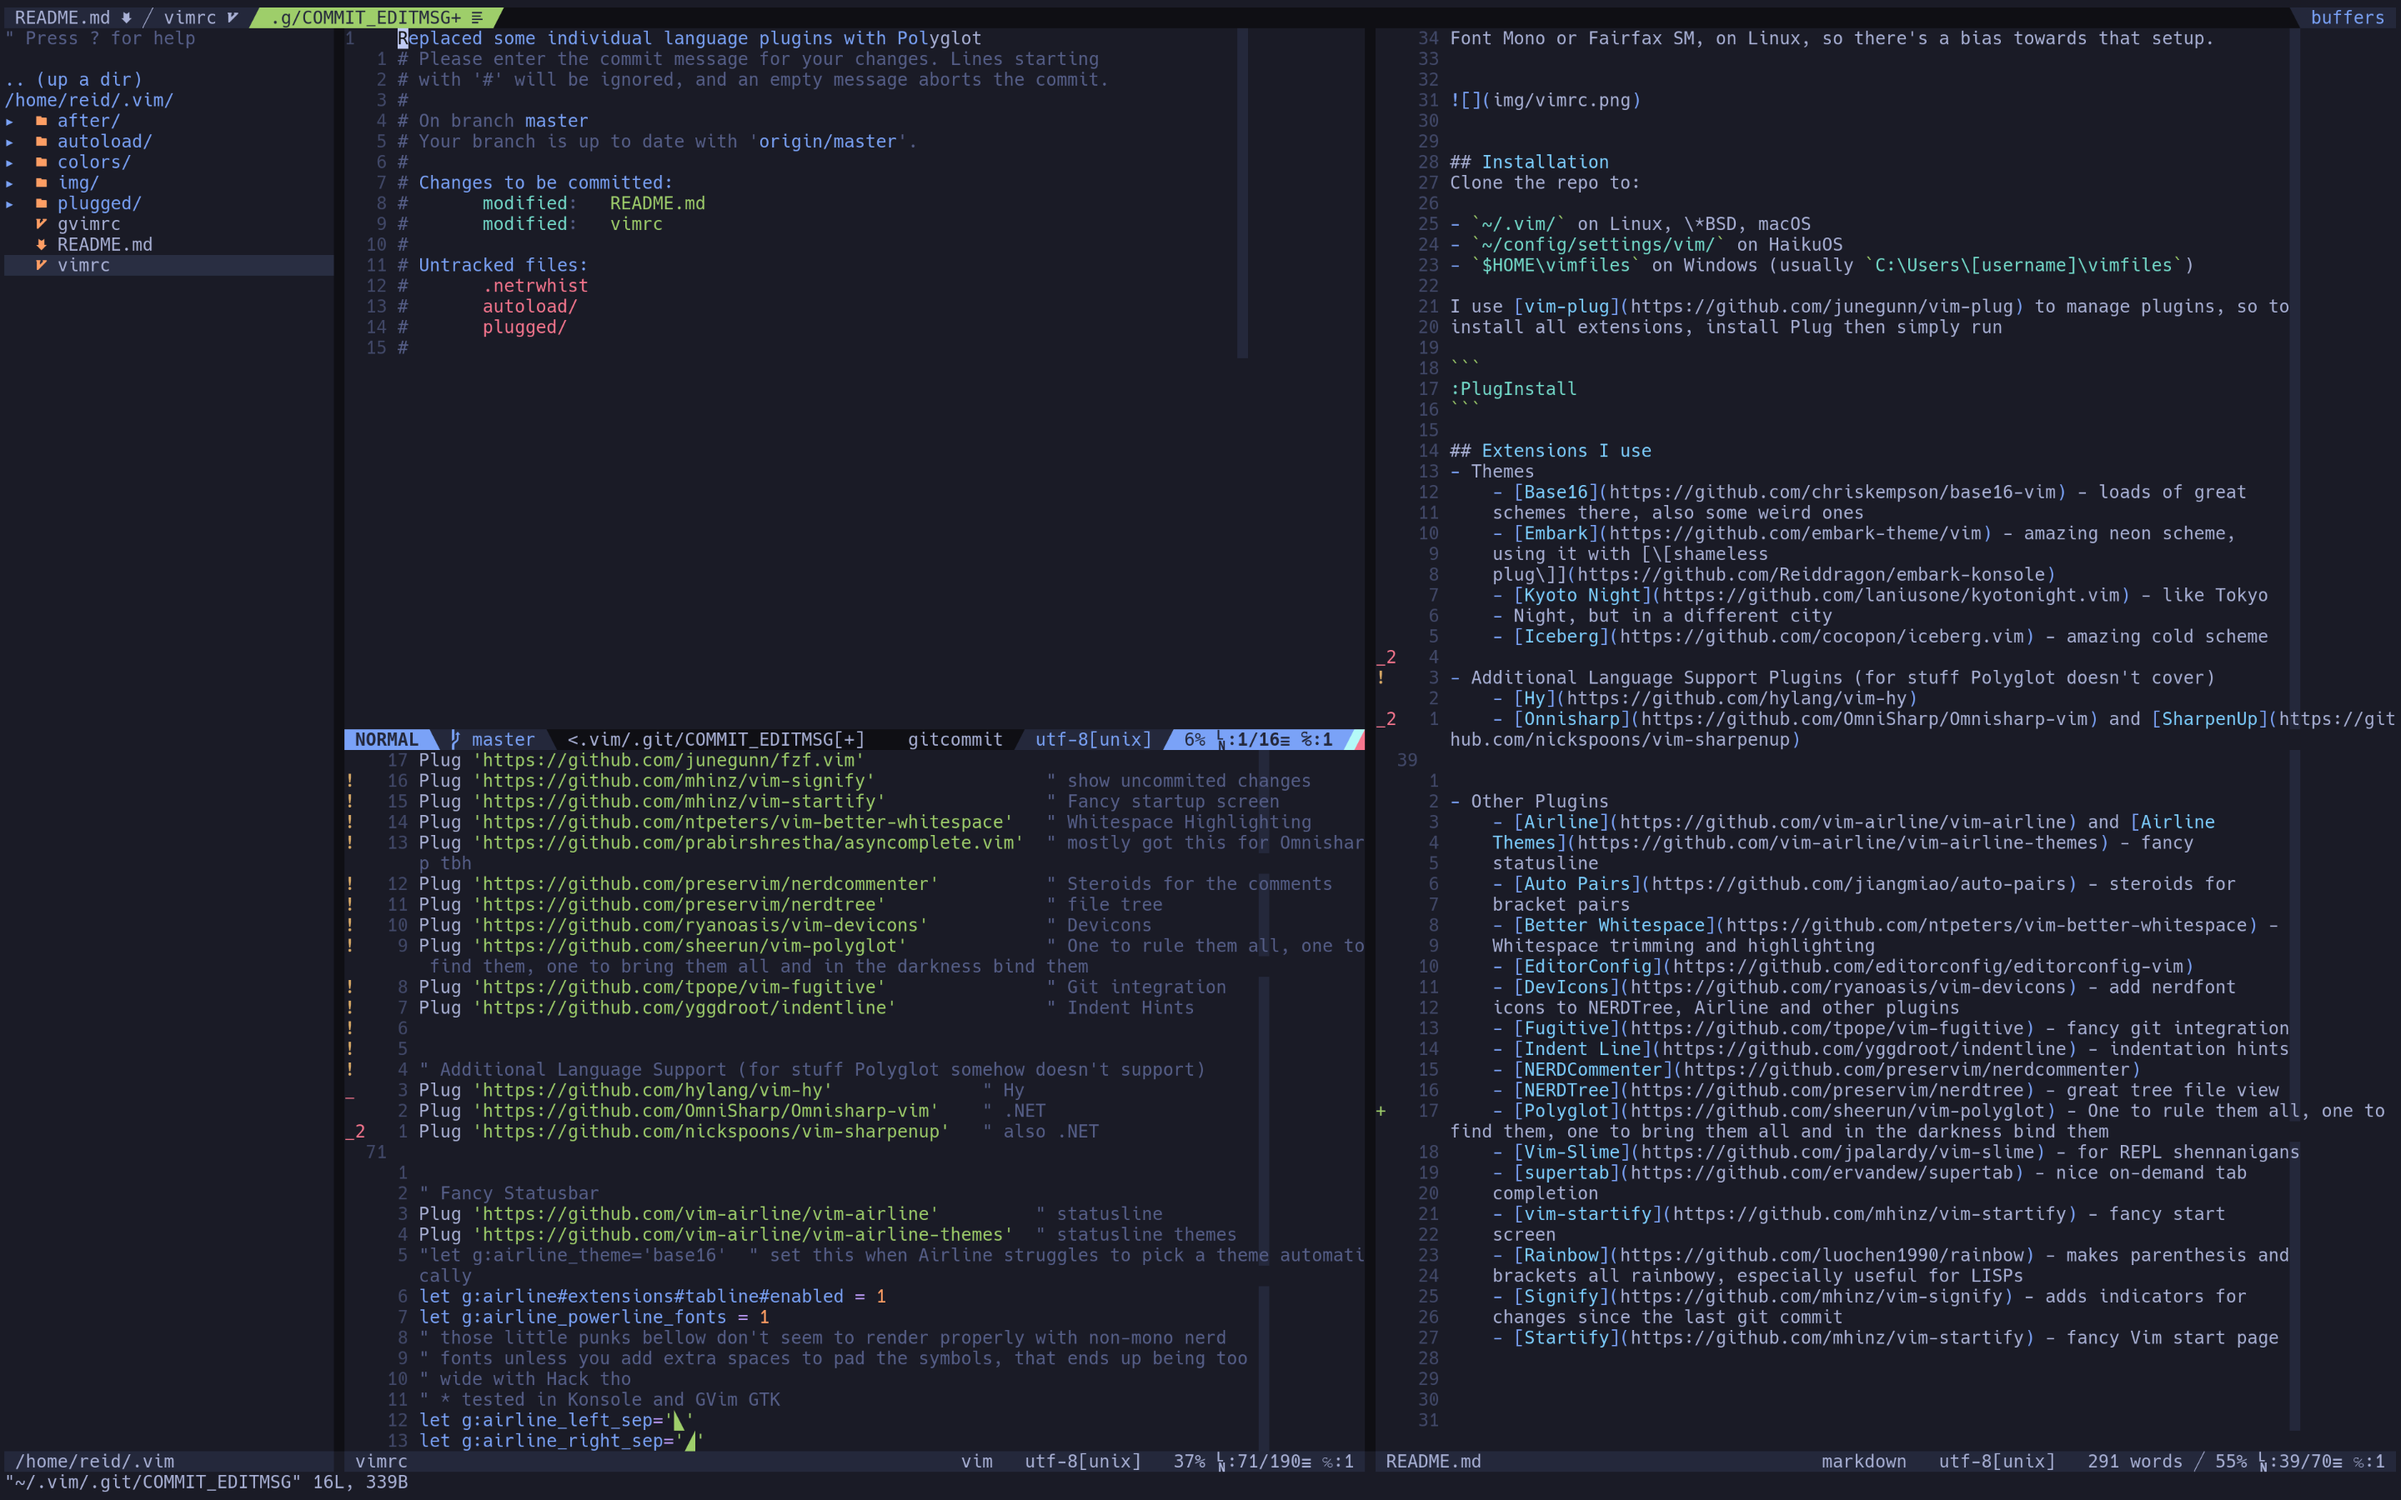
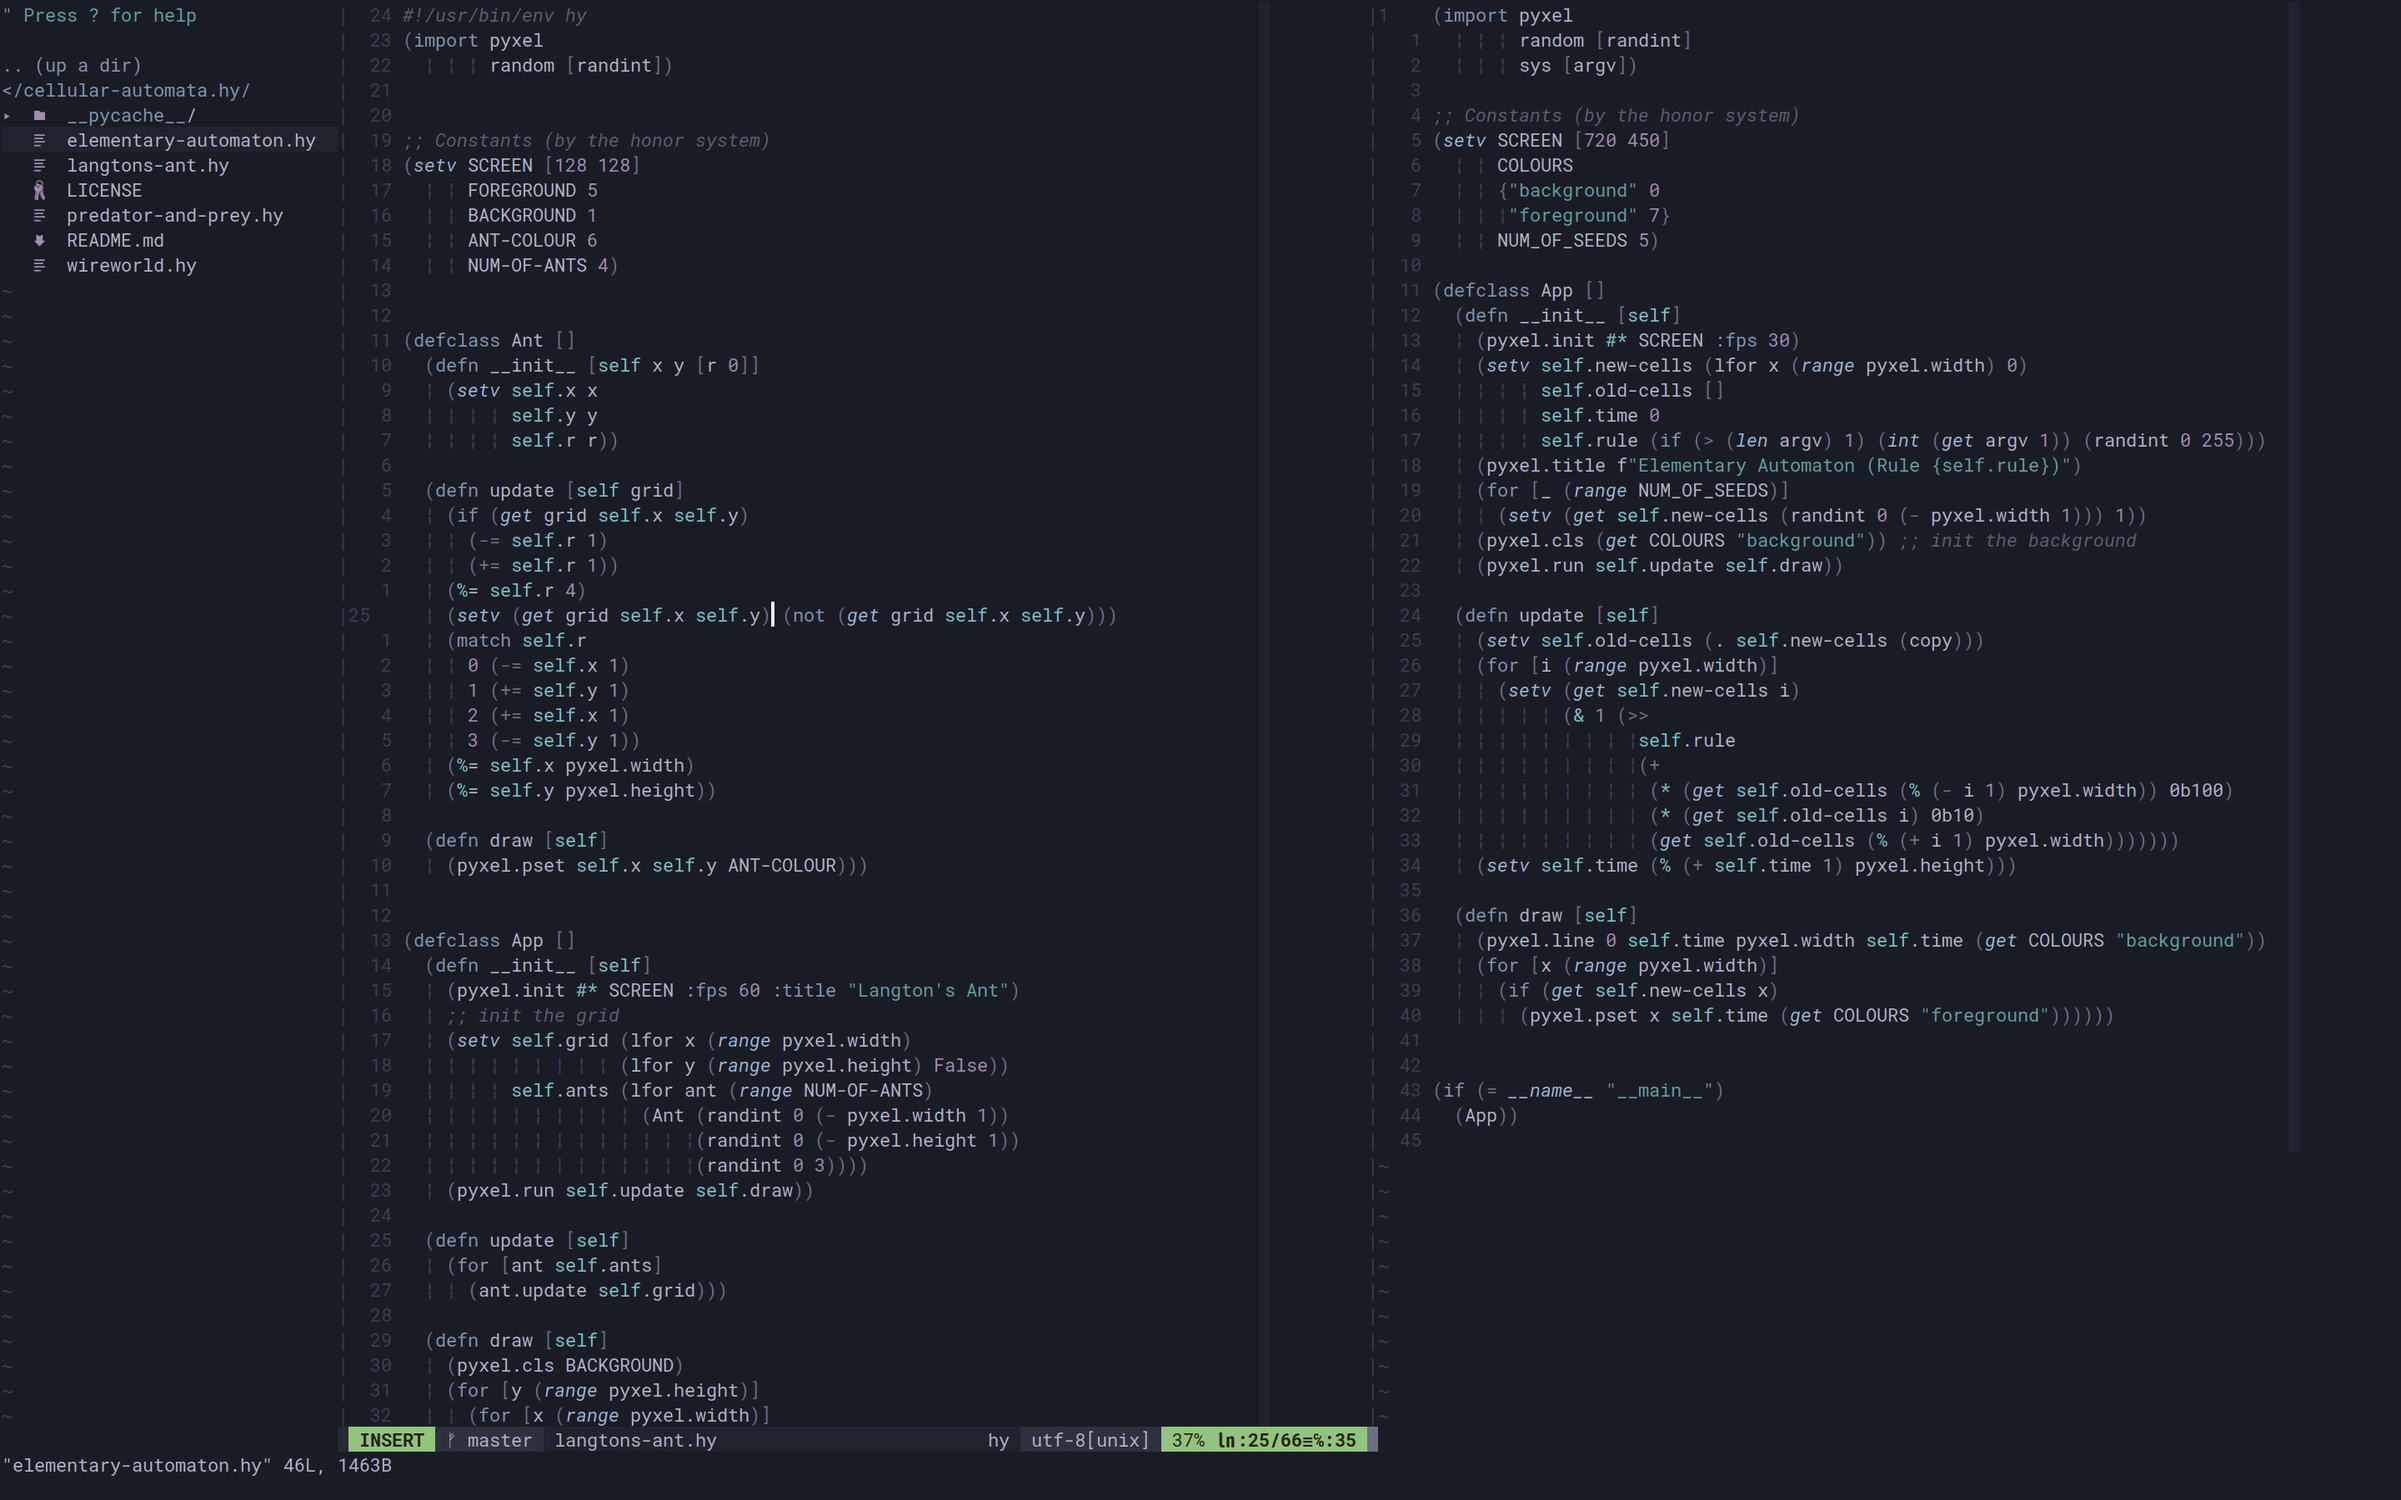
Added moar sheez, changed some others

diff --git a/README.md b/README.md
@@ -1,8 +1,8 @@
 # Reiddragon's vimrc
 
 Just my vimrc, bunch of addons I find useful, and some themes I like to rotate
-between. I mostly use it with Vim (not Neovim) in Kitty or GVim, with Hack Nerd
-Font Mono or Fairfax SM, on Linux, so there's a bias towards that setup.
+between. I mostly use it with Vim (not Neovim) in Kitty or GVim, with Roboto
+Mono, or Fairfax SM, on Linux, so there's a bias towards those combos.
 
 
 ![](img/vimrc.png)
@@ -26,16 +26,27 @@ install all extensions, install Plug then simply run
 - Themes
     - [Base16](https://github.com/chriskempson/base16-vim) - loads of great
     schemes there, also some weird ones
+    - [Code Dark](https://github.com/tomasiser/vim-code-dark) - for le epic
+    memez aka when I want to see who notices this isn't VS Code :P
+    - [C64](https://github.com/tssm/c64-vim-color-scheme) - because some looks
+    are just too legendary, even if they're not that great for coding
     - [Embark](https://github.com/embark-theme/vim) - amazing neon scheme,
     using it with [\[shameless
     plug\]](https://github.com/Reiddragon/embark-konsole)
     - [Kyoto Night](https://github.com/laniusone/kyotonight.vim) - like Tokyo
     Night, but in a different city
+    - [Gruvbox](https://github.com/morhetz/gruvbox) - Because sometimes me
+    likey warm schemes
     - [Iceberg](https://github.com/cocopon/iceberg.vim) - amazing cold scheme
+    - [Nightfox](https://github.com/EdenEast/nightfox.nvim)
+    - [Substrata](https://github.com/arzg/vim-substrata) - cold scheme, damn
+    great with Roboto Mono
+    - [Zenburn](https://github.com/jnurmine/Zenburn) - Alien fruit salad
 
 - Additional Language Support Plugins (for stuff Polyglot doesn't cover)
     - [Hy](https://github.com/hylang/vim-hy)
-    - [Onnisharp](https://github.com/OmniSharp/Omnisharp-vim) and [SharpenUp](https://github.com/nickspoons/vim-sharpenup)
+    - [Onnisharp](https://github.com/OmniSharp/Omnisharp-vim) and
+    [SharpenUp](https://github.com/nickspoons/vim-sharpenup)
 
 
 - Other Plugins
@@ -53,7 +64,8 @@ install all extensions, install Plug then simply run
     - [Indent Line](https://github.com/yggdroot/indentline) - indentation hints
     - [NERDCommenter](https://github.com/preservim/nerdcommenter)
     - [NERDTree](https://github.com/preservim/nerdtree) - great tree file view
-    - [Polyglot](https://github.com/sheerun/vim-polyglot) - One to rule them all, one to find them, one to bring them all and in the darkness bind them
+    - [Polyglot](https://github.com/sheerun/vim-polyglot) - Ash durbatulûk, ash
+    gimbatul, ash thrakatulûk, agh burzum-ishi krimpatul
     - [Vim-Slime](https://github.com/jpalardy/vim-slime) - for REPL shennanigans
     - [supertab](https://github.com/ervandew/supertab) - nice on-demand tab
     completion
@@ -64,6 +76,8 @@ install all extensions, install Plug then simply run
     - [Signify](https://github.com/mhinz/vim-signify) - adds indicators for
     changes since the last git commit
     - [Startify](https://github.com/mhinz/vim-startify) - fancy Vim start page
+    - [Terminus](https://github.com/wincent/terminus) - some goodies to improve
+    The Vim Experience(TM) in a terminal
 
 
 
